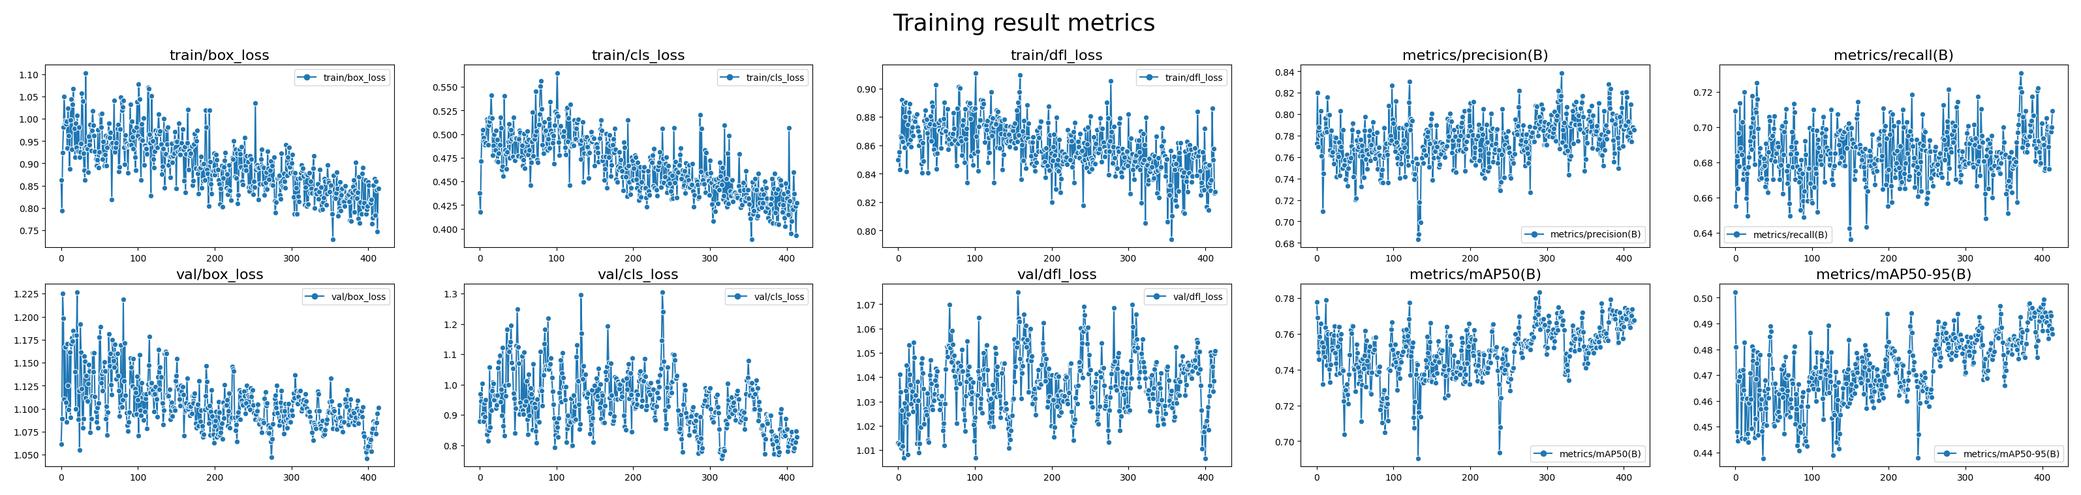
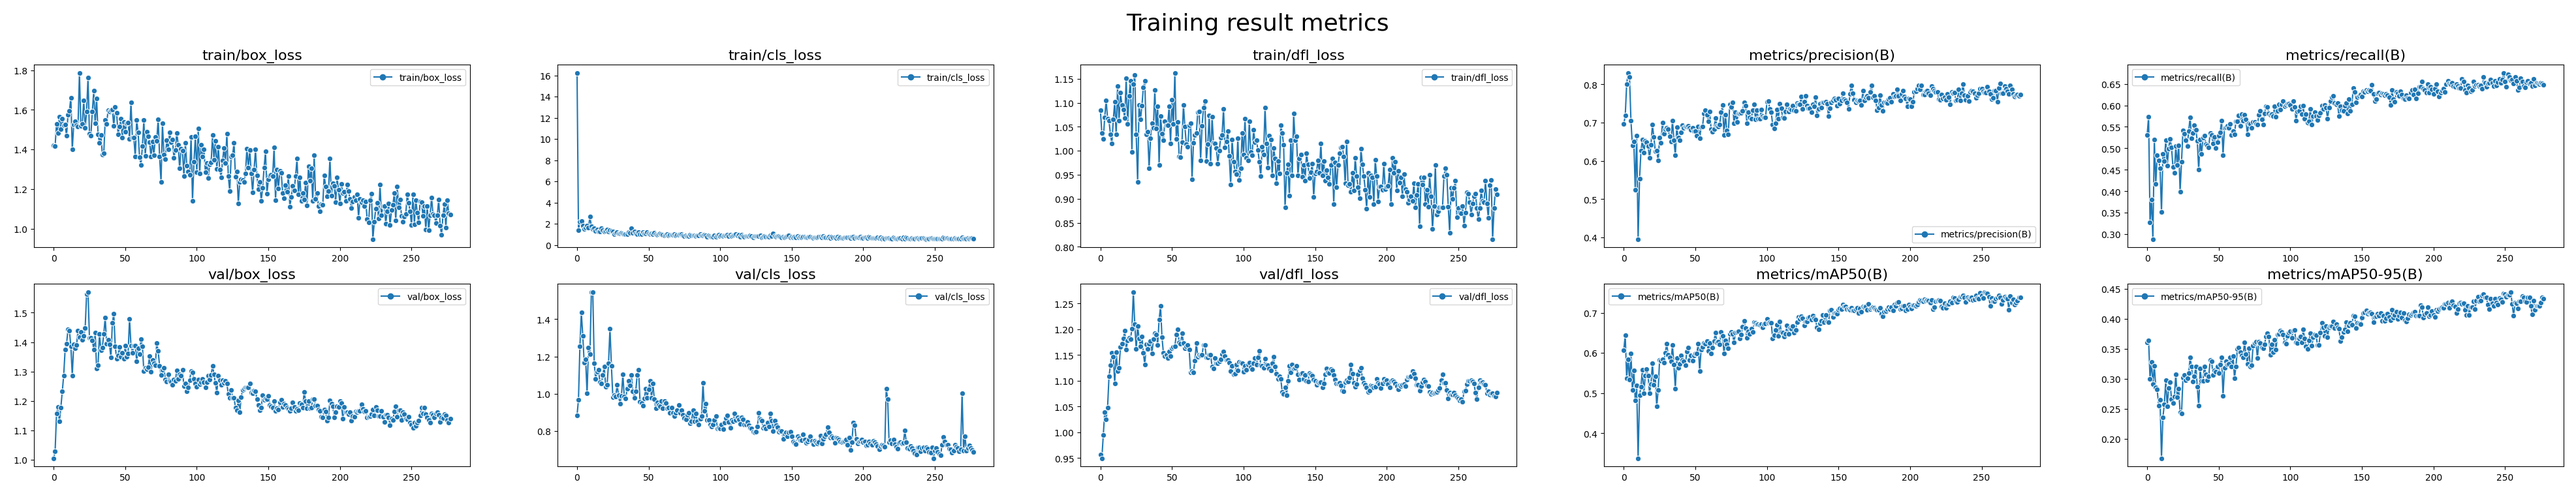
.

diff --git a/models/YOLOv8/training_results_visualization.py b/models/YOLOv8/training_results_visualization.py
@@ -13,7 +13,7 @@ def plot_metrics(dfx, column_names_to_plot, gridspec_cols=2, idx=0):
     assert (len(column_names_to_plot) / gridspec_cols > 1)  # not allowed single row gridspec plot
     gridspec_rows = math.ceil(len(column_names_to_plot) / gridspec_cols)
 
-    fig, axes = plt.subplots(gridspec_rows, gridspec_cols, figsize=(8 * gridspec_cols, 4 * gridspec_rows))
+    fig, axes = plt.subplots(gridspec_rows, gridspec_cols, figsize=(10 * gridspec_cols, 4 * gridspec_rows))
     for i in range(gridspec_rows):
         for j in range(gridspec_cols):
             if idx < len(column_names_to_plot):
@@ -29,15 +29,21 @@ def plot_metrics(dfx, column_names_to_plot, gridspec_cols=2, idx=0):
 
 # merging training results
 files = [  # '../../runs/detect/' + train_result_folder + '/results.csv',
+    # round 1
     # '../../runs/detect/train16/results.csv',
     # '../../runs/detect/train17/results.csv',
     # '../../runs/detect/train18/results.csv',
-    # '../../runs/detect/train19/results.csv',
-    '../../runs/detect/train20/results.csv',
-    '../../runs/detect/train21/results.csv',
-    '../../runs/detect/train22/results.csv',
-    '../../runs/detect/train23/results.csv',
-    '../../runs/detect/train24/results.csv',
+    # round 2
+    # '../../runs/detect/train20/results.csv',
+    # '../../runs/detect/train21/results.csv',
+    # '../../runs/detect/train22/results.csv',
+    # '../../runs/detect/train23/results.csv',
+    # '../../runs/detect/train24/results.csv',
+    # round 3
+    '../../runs/detect/train27/results.csv',
+    '../../runs/detect/train28/results.csv',
+    '../../runs/detect/train29/results.csv',
+    '../../runs/detect/train30/results.csv',
 ]
 df = pd.concat(map(pd.read_csv, files), ignore_index=True)
 df.columns = [x.strip(' ') for x in df.columns]

diff --git a/update_annotations_incrementally.py b/update_annotations_incrementally.py
@@ -15,6 +15,6 @@ else:
 # AnnotationYOLOv8(batch_path, model_id=1, model_weights='./models/YOLOv8/weights/yolov8x.pt').foo()
 # AnnotationSahiYOLOv8(batch_path, model_id=3, model_weights='./models/YOLOv8/weights/yolov8x.pt').foo()
 # AnnotationYOLOv8(batch_path, model_id=4, model_weights='./runs/detect/train18/weights/best.pt').foo()
-AnnotationYOLOv8(batch_path, model_name='YOLOv8x_BB158_500_t16_b',
+AnnotationYOLOv8(batch_path, model_name='YOLOv8x_BB158_1000_t24_l',
                  model_weights='./runs/detect/train24/weights/last.pt').foo()
 # AnnotationSahiYOLOv8(batch_path, model_id=5, model_weights='./runs/detect/train18/weights/best.pt').foo()
